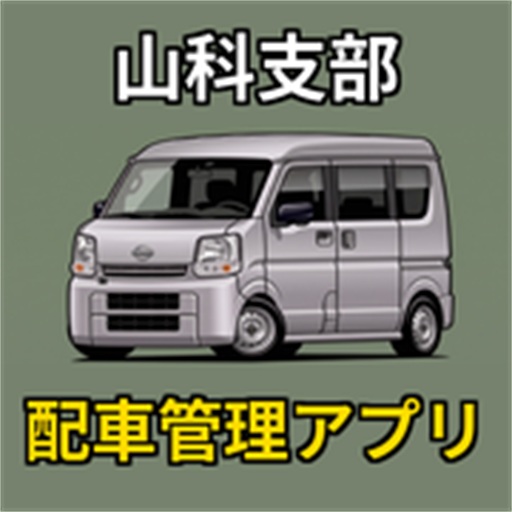
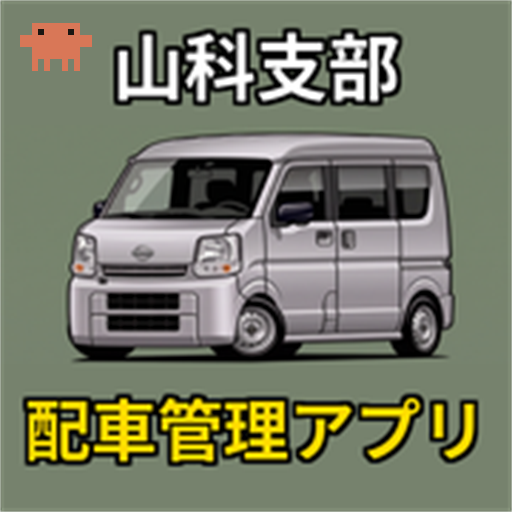
ホーム画面とアイコンの左上にClaude Codeのキャラクターを追加
御神書索引と同じドット絵のキャラクター。ホーム画面では左右に歩き、
アプリのアイコンには止まった姿を描き込む（32pxのタブ用は除く）。

Changed region(s): [[0.0312, 0.0312, 0.1875, 0.1562]]

diff --git a/index.html b/index.html
@@ -278,6 +278,30 @@
 
         .export-mode .driver-group-text { display: none !important; }
         .export-mode .gassho-day-toggle { display: none !important; }
+        /* === Claude Code のキャラクター（ホーム画面の左上） === */
+        #step0 { position: relative; }
+        .cc-mascot {
+            position: absolute; top: 10px; left: 20px; z-index: 2;
+            display: flex; flex-direction: column; align-items: center; gap: 3px;
+            text-decoration: none;
+        }
+        .cc-mascot svg {
+            width: 36px; height: 27px;
+            shape-rendering: crispEdges; overflow: visible; transform-origin: center;
+        }
+        /* 歩く・立ち止まる・手足の動きは、下のスクリプト（ccMascot）で1コマずつ動かしている */
+        .cc-mascot .cc-label {
+            font-family: -apple-system, "Segoe UI", sans-serif;
+            font-size: 7px; letter-spacing: 0.05em; color: #d97757; opacity: 0.8; white-space: nowrap;
+        }
+        .cc-body { fill: #d97757; }
+        .cc-eye { fill: #1a1612; transform-box: fill-box; transform-origin: center; }
+        /* ときどきまばたき */
+        .cc-eye { animation: cc-blink 4s infinite; }
+        @keyframes cc-blink {
+            0%, 92%, 100% { transform: scaleY(1); }
+            95%           { transform: scaleY(0.1); }
+        }
 /* === カレンダー画面 === */
         .cal-header { display: flex; align-items: center; justify-content: space-between; margin-bottom: 10px; gap: 6px; }
         .cal-nav-btn { background: var(--main-blue); color: white; border: none; border-radius: 50%; width: 44px; height: 44px; font-size: 1.3rem; flex: none; padding: 0; display: flex; align-items: center; justify-content: center; box-shadow: 0 2px 4px rgba(0,0,0,0.1); }
@@ -348,6 +372,24 @@
 </div>
 
 <div id="step0" class="step-container active">
+    <a class="cc-mascot" href="https://claude.com/claude-code" target="_blank" rel="noopener" title="Claude Code で作成" aria-label="Claude Code で作成">
+        <!-- 1マス＝1ドットのドット絵（横12×縦8マス：体6段＋足2段） -->
+        <svg viewBox="0 -1 12 9" aria-hidden="true">
+            <!-- 足（左から順に4本）。上げるときは高さを1マスにする -->
+            <rect class="cc-body cc-leg" x="2" y="6" width="1" height="2"/>
+            <rect class="cc-body cc-leg" x="4" y="6" width="1" height="2"/>
+            <rect class="cc-body cc-leg" x="7" y="6" width="1" height="2"/>
+            <rect class="cc-body cc-leg" x="9" y="6" width="1" height="2"/>
+            <g class="cc-hop">
+                <rect class="cc-body" x="2" y="0" width="8" height="6"/>
+                <rect class="cc-body cc-arm-l" x="0" y="2" width="2" height="2"/>
+                <rect class="cc-body cc-arm-r" x="10" y="2" width="2" height="2"/>
+                <rect class="cc-eye" x="3" y="1" width="1" height="1"/>
+                <rect class="cc-eye" x="8" y="1" width="1" height="1"/>
+            </g>
+        </svg>
+        <span class="cc-label">Claude Code</span>
+    </a>
     <div style="text-align: center; margin-top: 30px; margin-bottom: 40px;">
         <h1 style="border:none; font-size: 1.4rem; color: var(--main-blue); margin-bottom: 5px;">🚗 山科支部</h1>
         <h1 style="border:none; font-size: 1.8rem; color: #000; margin-top: 0;">配車管理アプリ</h1>
@@ -1953,6 +1995,66 @@ function openHaishaFromCal(key) {
     }, 100);
 }
 
+
+// =============================================================
+// Claude Code のキャラクター（ホーム画面の左上）
+//   右へ歩く → 端で立ち止まって手足をちょこちょこ動かし、振り向く → 左へ戻る … を繰り返す
+// =============================================================
+(function ccMascot() {
+    const svg = document.querySelector(".cc-mascot svg");
+    if (!svg) return;
+
+    const body = svg.querySelector(".cc-hop");
+    const armL = svg.querySelector(".cc-arm-l");
+    const armR = svg.querySelector(".cc-arm-r");
+    const legs = Array.from(svg.querySelectorAll(".cc-leg")); // 左から順に4本
+
+    const HALF = 12;        // 真ん中から左右それぞれに歩く幅（px）
+    const STEP = 2;         // 1歩で進む距離（px）
+    const TICK = 220;       // 1コマの長さ（ミリ秒）
+    const IDLE_TICKS = 9;   // 端で立ち止まるコマ数
+
+    let x = -HALF, dir = 1, mode = "idle", t = 0;
+
+    const legUp = (i, up) => legs[i].setAttribute("height", up ? 1 : 2);
+    const armUp = (el, up) => el.setAttribute("y", up ? 1 : 2);
+    const bob = up => body.setAttribute("transform", up ? "translate(0,-1)" : "");
+    const rest = () => { legs.forEach((_, i) => legUp(i, false)); armUp(armL, false); armUp(armR, false); bob(false); };
+    const draw = () => { svg.style.transform = `translateX(${x}px) scaleX(${dir})`; };
+
+    function tick() {
+        // ホーム画面が表示されていない間は動かさない（電池の節約）
+        if (!document.getElementById('step0').classList.contains('active') || document.hidden) return;
+        t++;
+        if (mode === "walk") {
+            // 歩く：外側2本と内側2本の足を交互に上げ、体も小さく弾ませる
+            const ph = t % 2;
+            armUp(armL, false); armUp(armR, false);
+            legUp(0, ph === 0); legUp(2, ph === 0);
+            legUp(1, ph === 1); legUp(3, ph === 1);
+            bob(ph === 0);
+            x += STEP * dir;
+            if (x <= -HALF || x >= HALF) {
+                x = Math.max(-HALF, Math.min(HALF, x));
+                mode = "idle"; t = 0; rest();
+            }
+        } else {
+            // 立ち止まり：両腕を交互に上げ下げし、端の足でトントンと足踏み
+            const ph = t % 4;
+            armUp(armL, ph === 1);
+            armUp(armR, ph === 3);
+            legUp(0, ph === 2);
+            legUp(3, ph === 0);
+            bob(false);
+            if (t === Math.floor(IDLE_TICKS / 2)) dir = (x >= HALF) ? -1 : 1; // 途中で振り向く
+            if (t >= IDLE_TICKS) { mode = "walk"; t = 0; rest(); }
+        }
+        draw();
+    }
+
+    draw();
+    setInterval(tick, TICK);
+})();
 
 // === メインの処理を安全に起動 ===
 window.addEventListener('DOMContentLoaded', () => {
